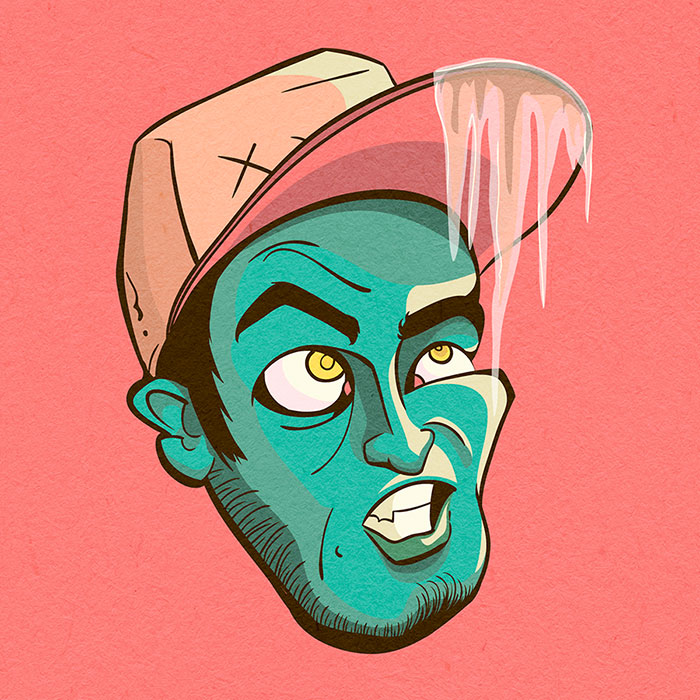
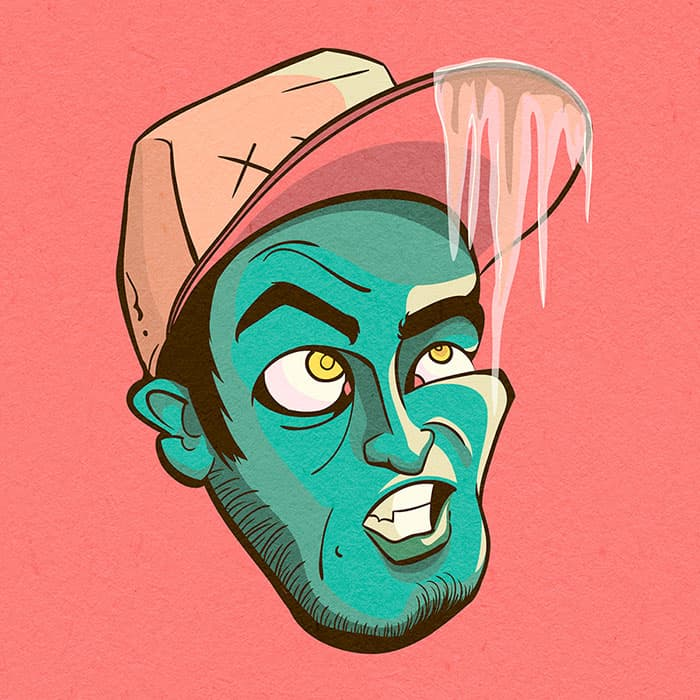
image optimized

diff --git a/index.html b/index.html
@@ -18,12 +18,12 @@
       <h2 class="visually-hidden">Album of illustrations</h2>
       <ul class="image-list">
         <li><img class="shadow-pop-tr shadow-drop-bl" src="img/13.png" alt="mermaid on a kiteboard"></li>
-        <li><img class="shadow-pop-bl shadow-drop-bl" src="img/2.png" alt="mermaid"></li>
+        <li><img class="shadow-pop-bl shadow-drop-bl" src="img/2.jpg" alt="mermaid"></li>
         <li><img class="shadow-pop-br shadow-drop-bl" src="img/3.jpg" alt="famous man portrait"></li>
         <li><img class="shadow-pop-tr shadow-drop-bl" src="img/4.jpg" alt="province album cover"></li>
-        <li><img class="shadow-pop-br shadow-drop-bl" src="img/5.png" alt="skateboard"></li>
+        <li><img class="shadow-pop-br shadow-drop-bl" src="img/5.jpg" alt="skateboard"></li>
         <li><img class="shadow-pop-bl shadow-drop-bl" src="img/6.jpg" alt="chinese with a cheeseburger"></li>
-        <li><img class="shadow-pop-br shadow-drop-bl" src="img/7.png" alt="mighty boosh"></li>
+        <li><img class="shadow-pop-br shadow-drop-bl" src="img/7.jpg" alt="mighty boosh"></li>
         <li><img class="shadow-pop-tr shadow-drop-bl" src="img/10.jpg" alt="wine on the road"></li>
         <li><img class="shadow-pop-bl shadow-drop-bl" src="img/1.jpg" alt="finky_furkle self-portrait"></li>
 

diff --git a/style.css b/style.css
@@ -1,6 +1,6 @@
 body {
     width: 95%;
-    background-image: url('./img/wallpaper.png');
+    background-image: url('./img/wallpaper.jpg');
     background-repeat: repeat;
     background-position: 0 0;
     margin: 0 auto;
